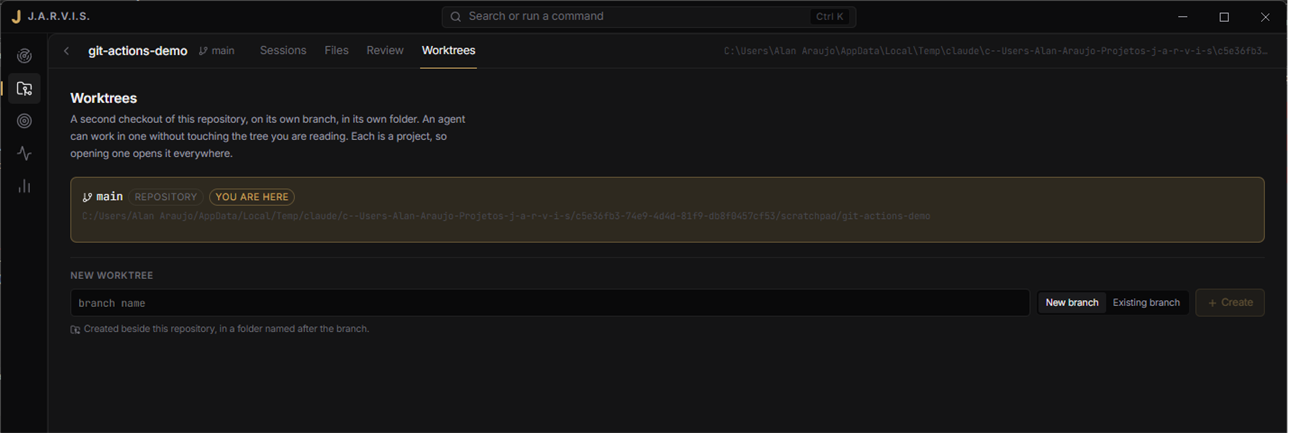
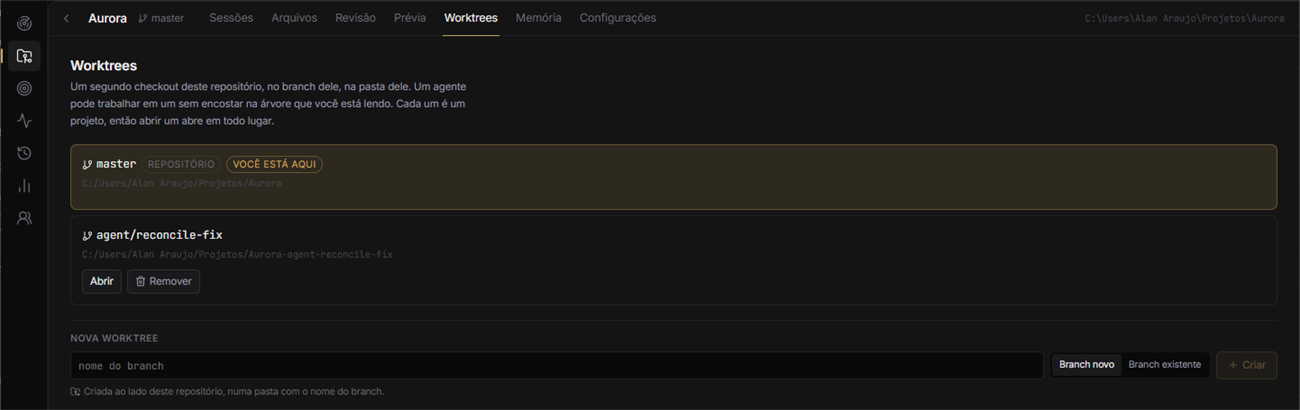
docs(site): fix a figure that showed the opposite of its caption
The Worktrees figure was from an old build and showed no worktrees at all,
under a caption claiming it showed several. Recaptured against 0.5.0 with a
real worktree, and it now proves the naming rule the page states two
paragraphs later: branch agent/reconcile-fix, folder Aurora-agent-reconcile-fix.

The editor and Files figures were also from an older build with a different
rail and a different set of project areas; both recaptured.

The notification toast was a full window scaled down to illegibility.
Cropped to the toast, where it now demonstrates the translation rule
exactly: the title is ours and translated, the agent's question is not.

Two smaller things: the root redirect had an inline script and an inline
style, which the production CSP would have blocked while working perfectly
from file:// — the worst shape a bug can have. Both externalised, and the
build now fails on any inline script, style or event handler anywhere in the
output. And the language switch wrote a preference nothing ever read; the
root page reads it now.

diff --git a/apps/docs/assets/pick-locale.js b/apps/docs/assets/pick-locale.js
@@ -1,0 +1,28 @@
+/**
+ * The root document picks a language and gets out of the way.
+ *
+ * External rather than inline for the same reason theme.js is: the site's
+ * content security policy is `script-src 'self'`, and an inline script here
+ * would be blocked in production while working perfectly from `file://` —
+ * leaving every visitor to the bare domain on a blank page.
+ */
+(function () {
+  // A language you chose beats the one your browser reports. The switch in the
+  // top bar records the choice; this is the half that reads it, and without it
+  // that write would be a preference nothing ever honours.
+  try {
+    var chosen = localStorage.getItem("jarvis-docs-locale");
+    if (chosen === "en" || chosen === "pt-BR") {
+      location.replace(chosen + "/overview.html");
+      return;
+    }
+  } catch (e) {
+    /* Private windows and blocked site data both throw on access. */
+  }
+
+  var langs = navigator.languages || [navigator.language || "en"];
+  var pt = Array.prototype.some.call(langs, function (l) {
+    return String(l).toLowerCase().indexOf("pt") === 0;
+  });
+  location.replace((pt ? "pt-BR" : "en") + "/overview.html");
+})();

diff --git a/apps/docs/content/en/confidence.html b/apps/docs/content/en/confidence.html
@@ -49,10 +49,10 @@ shell command, and the transcript records the answer rather than the question. T
 know is to read the terminal, and the only honest thing to do is say that is what happened.</p>
 
 <figure class="fig">
-  <img src="../img/notification-toast.png" alt="A notification in J.A.R.V.I.S. showing an agent's question, labelled with where the information came from.">
-  <figcaption><b>The label is part of the notification, not a footnote.</b> The title is ours
-  and translated; the preview is the agent's own words and is deliberately left
-  untranslated.</figcaption>
+  <img src="../img/notification-toast.png" alt="An in-app toast reading Claude Code is asking, with the agent's own question Teach auto mode about your environment? beneath it and the project name below that.">
+  <figcaption><b>The rule, in one toast.</b> <em>Claude Code is asking</em> is our sentence, so it
+  is translated. <em>Teach auto mode about your environment?</em> is the agent's own question, so
+  it is not — translating it would be presenting words nobody spoke.</figcaption>
 </figure>
 
 <h3>On an account's quota</h3>

diff --git a/apps/docs/content/pt-BR/confidence.html b/apps/docs/content/pt-BR/confidence.html
@@ -52,10 +52,10 @@ pergunta. O único jeito de saber é ler o terminal, e a única coisa honesta a 
 foi isso que aconteceu.</p>
 
 <figure class="fig">
-  <img src="../img/notification-toast.png" alt="Uma notificação no J.A.R.V.I.S. mostrando a pergunta de um agente, rotulada com a origem da informação.">
-  <figcaption><b>O rótulo é parte da notificação, não uma nota de rodapé.</b> O título é nosso e
-  é traduzido; a prévia são as palavras do próprio agente e é deliberadamente deixada sem
-  tradução.</figcaption>
+  <img src="../img/notification-toast.png" alt="Uma notificação no app lendo Claude Code está perguntando, com a pergunta do próprio agente Teach auto mode about your environment? embaixo e o nome do projeto abaixo dela.">
+  <figcaption><b>A regra, em uma notificação.</b> <em>Claude Code está perguntando</em> é a nossa
+  frase, então ela é traduzida. <em>Teach auto mode about your environment?</em> é a pergunta do
+  próprio agente, então não é — traduzir seria apresentar palavras que ninguém falou.</figcaption>
 </figure>
 
 <h3>Na cota de uma conta</h3>

diff --git a/apps/docs/content/pt-BR/worktrees.html b/apps/docs/content/pt-BR/worktrees.html
@@ -3,8 +3,11 @@ pasta. É o jeito mais limpo de deixar um agente trabalhar em alguma coisa sem e
 você tem aberto.</p>
 
 <figure class="fig">
-  <img src="../img/worktrees.png" alt="A área Worktrees de um projeto, listando worktrees com seus branches e caminhos.">
-  <figcaption>Worktrees deste repositório, cada uma com o branch em que está.</figcaption>
+  <img src="../img/worktrees.png" alt="A área Worktrees do projeto Aurora: a linha do repositório marcada como Você está aqui, e uma worktree no branch agent/reconcile-fix numa pasta chamada Aurora-agent-reconcile-fix.">
+  <figcaption><b>Um repositório, uma worktree, e a regra de nomes visível no caminho.</b> O branch
+  é <code>agent/reconcile-fix</code>; a pasta ao lado do repositório é
+  <code>Aurora-agent-reconcile-fix</code>. A barra virou um traço em vez de um diretório
+  aninhado.</figcaption>
 </figure>
 
 <h2>Uma worktree é um projeto</h2>

diff --git a/apps/docs/content/en/worktrees.html b/apps/docs/content/en/worktrees.html
@@ -3,8 +3,11 @@ folder. It is the cleanest way to let an agent work on something without touchin
 open.</p>
 
 <figure class="fig">
-  <img src="../img/worktrees.png" alt="The Worktrees area of a project, listing worktrees with their branches and paths.">
-  <figcaption>Worktrees of this repository, each with the branch it is on.</figcaption>
+  <img src="../img/worktrees.png" alt="The Worktrees area of the Aurora project: the repository row marked You are here, and one worktree on branch agent/reconcile-fix in a folder named Aurora-agent-reconcile-fix.">
+  <figcaption><b>One repository, one worktree, and the naming rule visible in the path.</b> The
+  branch is <code>agent/reconcile-fix</code>; the folder beside the repository is
+  <code>Aurora-agent-reconcile-fix</code>. The slash became a dash rather than a nested
+  directory.</figcaption>
 </figure>
 
 <h2>A worktree is a project</h2>

diff --git a/apps/docs/content/pt-BR/files-editor.html b/apps/docs/content/pt-BR/files-editor.html
@@ -20,8 +20,10 @@ uma no formato da requisição, e outra no caminho resolvido contra o sistema de
 <h2>O editor</h2>
 
 <figure class="fig">
-  <img src="../img/editor.png" alt="Um arquivo aberto no editor Monaco dentro de um projeto, com a árvore de arquivos ao lado.">
-  <figcaption>Monaco, carregado sob demanda e não na inicialização.</figcaption>
+  <img src="../img/editor.png" alt="Um arquivo TypeScript aberto no editor Monaco dentro do projeto Aurora, com destaque de sintaxe, números de linha, e a árvore de arquivos ao lado.">
+  <figcaption><b>Monaco, carregado sob demanda e não na inicialização.</b> Destaque de sintaxe e
+  nada mais — sem rabiscos vermelhos, porque sem contexto de projeto eles seriam confiantemente
+  errados.</figcaption>
 </figure>
 
 <p>Monaco, com destaque de sintaxe, e <span class="keys"><kbd>Ctrl</kbd><kbd>S</kbd></span> para

diff --git a/apps/docs/content/pt-BR/notifications.html b/apps/docs/content/pt-BR/notifications.html
@@ -75,9 +75,9 @@ que apaga códigos de escape.</p>
 <h2>Onde uma notificação aparece</h2>
 
 <figure class="fig">
-  <img src="../img/notification-toast.png" alt="Uma notificação flutuante no app mostrando a pergunta de um agente, com um sino e um contador na barra de título.">
-  <figcaption>Um sino na barra de título, uma central embaixo dele, e uma pilha de notificações
-  flutuantes no app.</figcaption>
+  <img src="../img/notification-toast.png" alt="Uma notificação no app lendo Claude Code está perguntando, com a pergunta do próprio agente Teach auto mode about your environment? embaixo e o nome do projeto abaixo dela.">
+  <figcaption><b>Uma notificação no app, carregando a pergunta do próprio agente e o projeto de
+  onde ela veio.</b> O título é nosso e é traduzido; a prévia não é.</figcaption>
 </figure>
 
 <ul>

diff --git a/apps/docs/content/en/files-editor.html b/apps/docs/content/en/files-editor.html
@@ -20,8 +20,10 @@ the shape of the request, and once on the resolved path against the real filesys
 <h2>The editor</h2>
 
 <figure class="fig">
-  <img src="../img/editor.png" alt="A file open in the Monaco editor inside a project, with the file tree beside it.">
-  <figcaption>Monaco, loaded on demand rather than at startup.</figcaption>
+  <img src="../img/editor.png" alt="A TypeScript file open in the Monaco editor inside the Aurora project, with syntax highlighting, line numbers, and the file tree beside it.">
+  <figcaption><b>Monaco, loaded on demand rather than at startup.</b> Syntax highlighting and
+  nothing else — no red squiggles, because without project context they would be confidently
+  wrong.</figcaption>
 </figure>
 
 <p>Monaco, with syntax highlighting, and <span class="keys"><kbd>Ctrl</kbd><kbd>S</kbd></span> to

diff --git a/apps/docs/content/en/notifications.html b/apps/docs/content/en/notifications.html
@@ -76,8 +76,9 @@ that deletes escape codes.</p>
 <h2>Where a notification appears</h2>
 
 <figure class="fig">
-  <img src="../img/notification-toast.png" alt="A toast notification in the app showing an agent's question, with a bell and badge in the titlebar.">
-  <figcaption>A bell in the titlebar, a centre under it, and an in-app toast stack.</figcaption>
+  <img src="../img/notification-toast.png" alt="An in-app toast reading Claude Code is asking, with the agent's own question Teach auto mode about your environment? beneath it and the project name below that.">
+  <figcaption><b>An in-app toast, carrying the agent's own question and the project it came
+  from.</b> The title is ours and translated; the preview is not.</figcaption>
 </figure>
 
 <ul>

diff --git a/apps/docs/assets/root.css b/apps/docs/assets/root.css
@@ -1,0 +1,10 @@
+/* The root document is a redirect. It paints the app's own background so the
+   moment before the redirect lands is not a white flash. */
+html {
+  background: #0c0c0d;
+}
+@media (prefers-color-scheme: light) {
+  html {
+    background: #f7f7f5;
+  }
+}

diff --git a/docs/DOCS-SITE.md b/docs/DOCS-SITE.md
@@ -81,10 +81,6 @@ msedge --headless=new --disable-gpu --hide-scrollbars \
 
 Proven working on this machine on 2026-08-25.
 
-## Status
-
-See the checklist at the bottom of this file, rewritten as work lands.
-
 ---
 
 ## What was built
@@ -152,5 +148,10 @@ clicking a button.
   publishing is outward-facing and the account carries two unrelated projects
   called `jarvis` and `jarvis-guardian`. Pick a name that cannot be confused
   with those.
+- **The demo data.** `Projetos/Aurora` is a real repository created for the
+  figures, and `Projetos/Aurora-agent-reconcile-fix` is a real worktree of it
+  created for the Worktrees figure. Both are safe to delete — remove the
+  worktree from inside the app so its project row is archived properly.
+
 - **B-DOC1 in `BLOCKERS.md`** — an unanswered AnyDesk remote-access request
   that appeared during this session. Read that one first.
